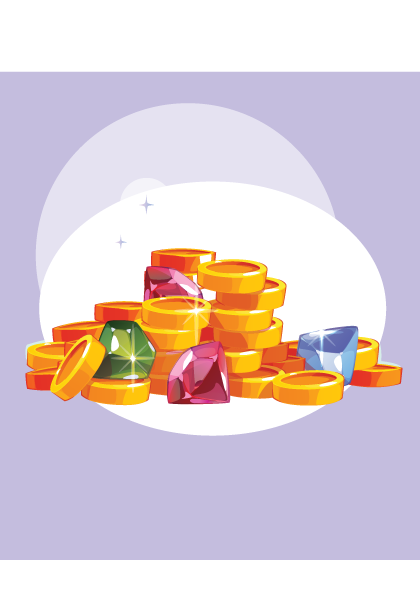
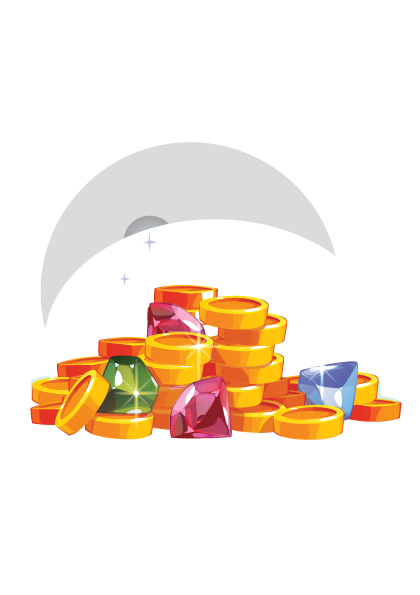
Fixed default theme light

diff --git a/app/_utils/hooks/useTodos.tsx b/app/_utils/hooks/useTodos.tsx
@@ -281,11 +281,6 @@ export const useTodos = (activeBoard: string) => {
   };
 
   const saveTrackedTime = async (id: string, seconds: number) => {
-    console.log("🔥 SAVE TRACKED TIME:", {
-      id,
-      seconds,
-    });
-
     try {
       const res = await fetch(`/api/todos/${id}`, {
         method: "PATCH",
@@ -298,7 +293,6 @@ export const useTodos = (activeBoard: string) => {
       });
 
       const data = await res.json();
-      console.log("🔥 SAVE RESPONSE:", res.status, data);
       setTodo((prev) =>
         prev.map((todo) =>
           todo._id === id

diff --git a/app/_utils/ui/ThemeProvider/ThemeProvider.tsx b/app/_utils/ui/ThemeProvider/ThemeProvider.tsx
@@ -4,7 +4,7 @@ import { ThemeProvider as NextThemesProvider } from "next-themes";
 
 export const ThemeProvider = ({ children }: { children: React.ReactNode }) => {
   return (
-    <NextThemesProvider attribute="class" defaultTheme="system" enableSystem>
+    <NextThemesProvider attribute="class" defaultTheme="light" enableSystem={false}>
       {children}
     </NextThemesProvider>
   );

diff --git a/app/globals.css b/app/globals.css
@@ -2,7 +2,7 @@
 
 :root {
   --background: #fdf2f8;
-  --coin-background: #c5bde0;
+  --coin-background: #fdf2f8;
   --foreground: #364153;
   --text-muted: #6b7280;
   --border: #dfd6db;
